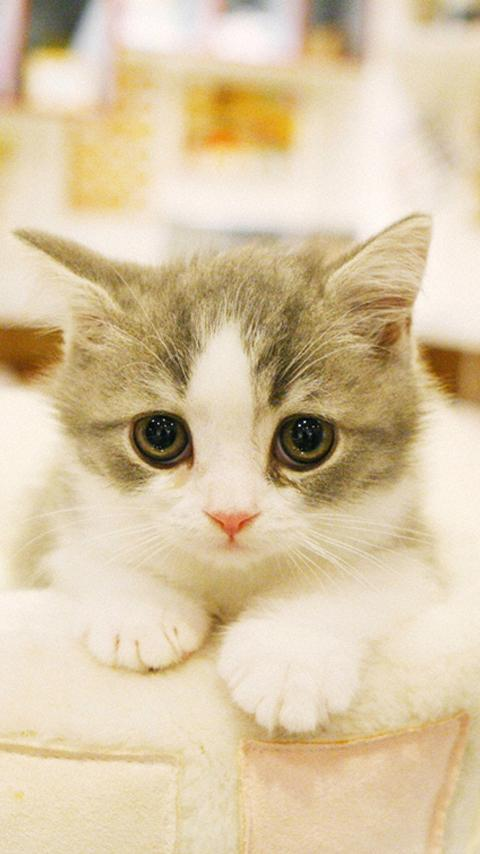
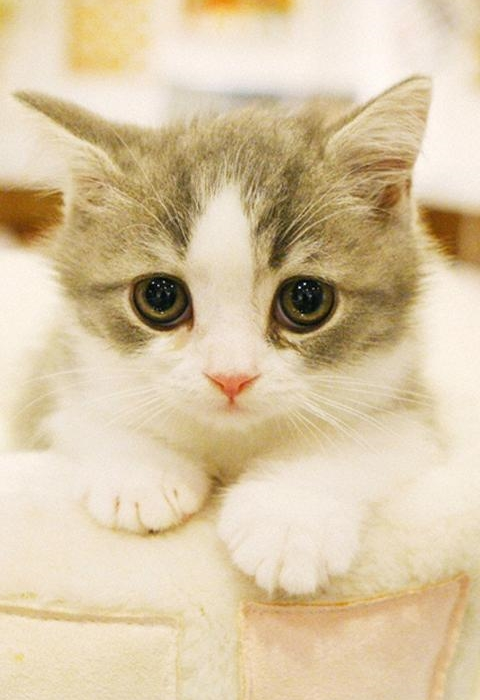
修改图片尺寸，增加图标

diff --git a/index.html b/index.html
@@ -8,8 +8,9 @@
 	<meta charset="utf-8">
 	<title>darouwan.org | Junfeng Chen's Space</title>
 	<meta name="description" content="Worthy a Bootstrap-based, Responsive HTML5 Template">
-	<meta name="author" content="htmlcoder.me">
-
+	<meta name="author" content="Chen Junfeng">
+	<meta name="nickname" content="darouwan">
+	<link rel="shortcut icon" type="image/x-icon" href="favicon.ico" media="screen"/>
 	<!-- Mobile Meta -->
 	<meta name="viewport" content="width=device-width, initial-scale=1.0">
 
@@ -163,7 +164,7 @@
 				<div class="text-center">
 					<div class="overlay-container">
 						<center><img class="text-center" src="images/alipay.jpg" alt="">
-							<a href="#" class="btn btn-default btn-lg" role="button">You can donate me</a>
+							<a href="" class="btn btn-default btn-lg" role="button">You can donate me</a>
 						</center>
 					</div>
 
@@ -236,6 +237,21 @@
 										<div class="row">
 											<div class="col-md-6">
 												<p>Phantom eye sight, you will never know what he is thinking.</p>
+
+												<p>
+
+												<h3>Evil? No. Sociopaths? Maybe.</h3></p>
+
+												<p>But they're the cutest, cuddliest little sociopaths in the
+													universe!</p>
+
+												<p>All kidding aside, misconceptions about cats is why so many adult
+													cats are either abandoned or homeless in shelters, and subsequently
+													why euthanasia rates are so much higher than those for dogs.</p>
+
+												<p>Go get yourself one, or another one - preferably an adult.
+													Here's a sweet boy at our shelter, waiting for a home....
+												</p>
 											</div>
 											<div class="col-md-6">
 												<img src="images/cat.jpg" alt="">
@@ -1125,7 +1141,8 @@
 	<div class="container">
 		<div class="row">
 			<div class="col-md-12">
-				<p class="text-center">Copyright © 2014 Junfeng Chen by <a target="_blank" href="http://htmlcoder.me">HtmlCoder</a>.
+				<p class="text-center">Copyright © 2014 Junfeng Chen by <a target="_blank"
+																		   href="http://www.bootstrapzero.com/bootstrap-template/worthy">Worthy</a>.
 				</p>
 			</div>
 		</div>
